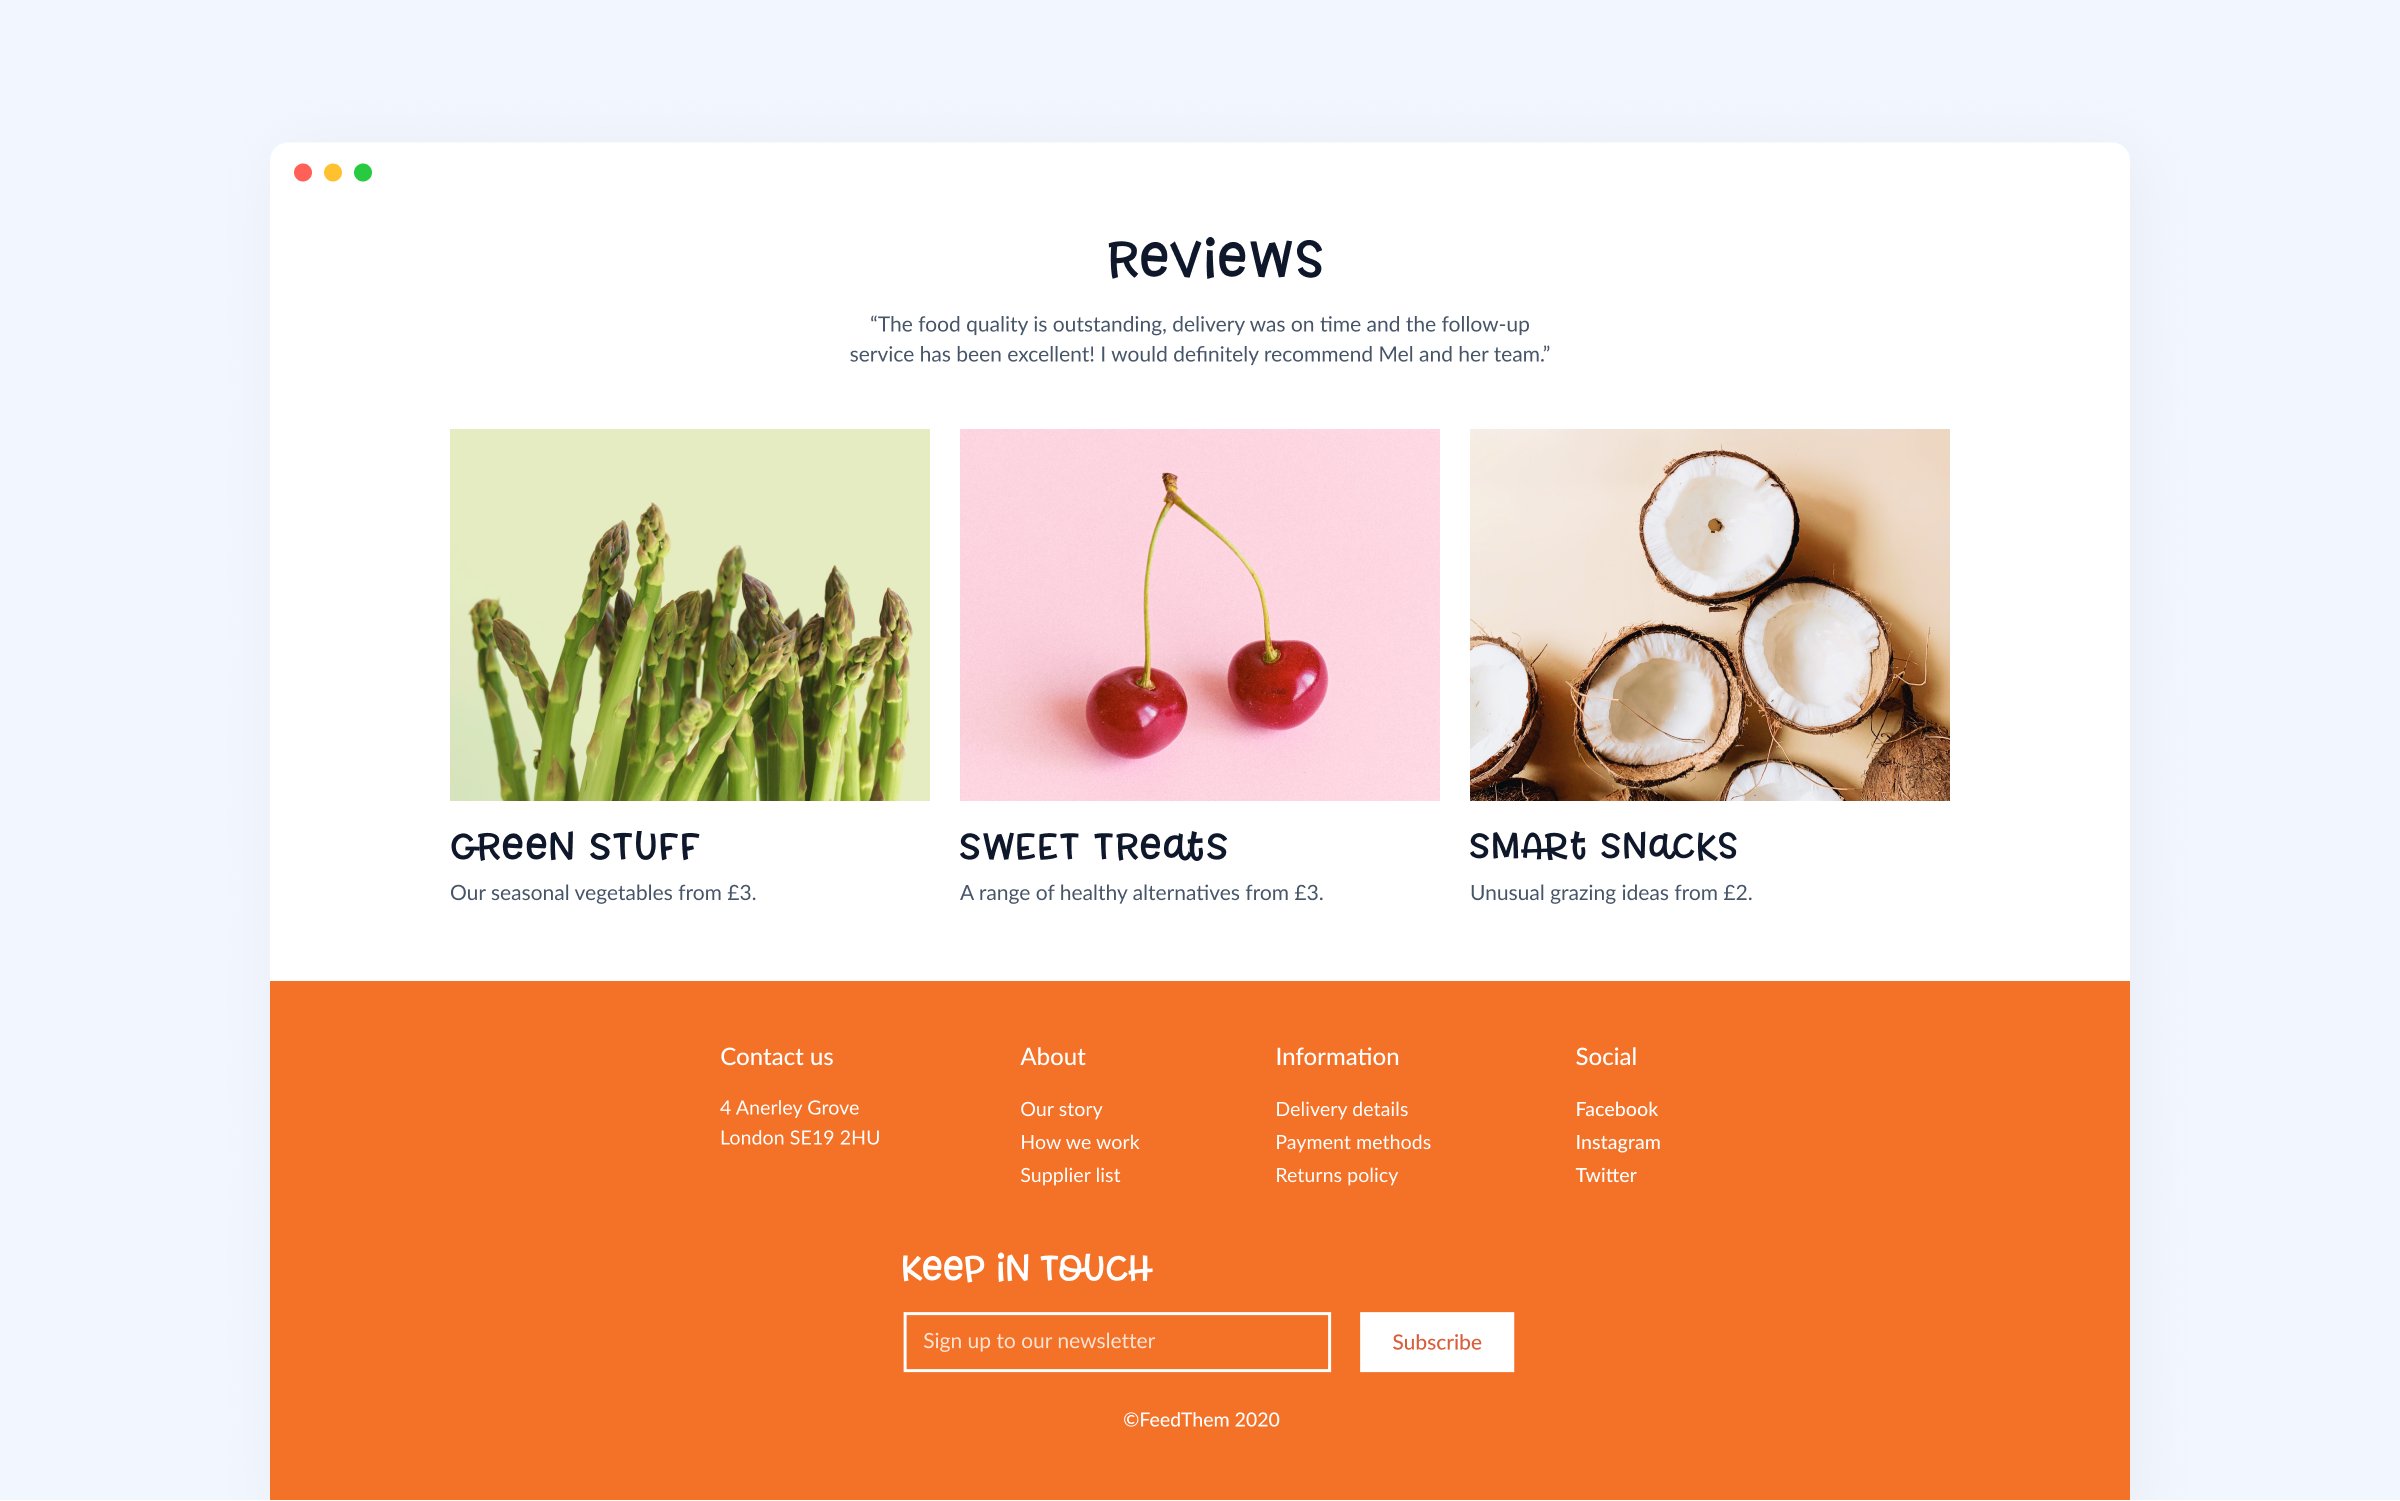
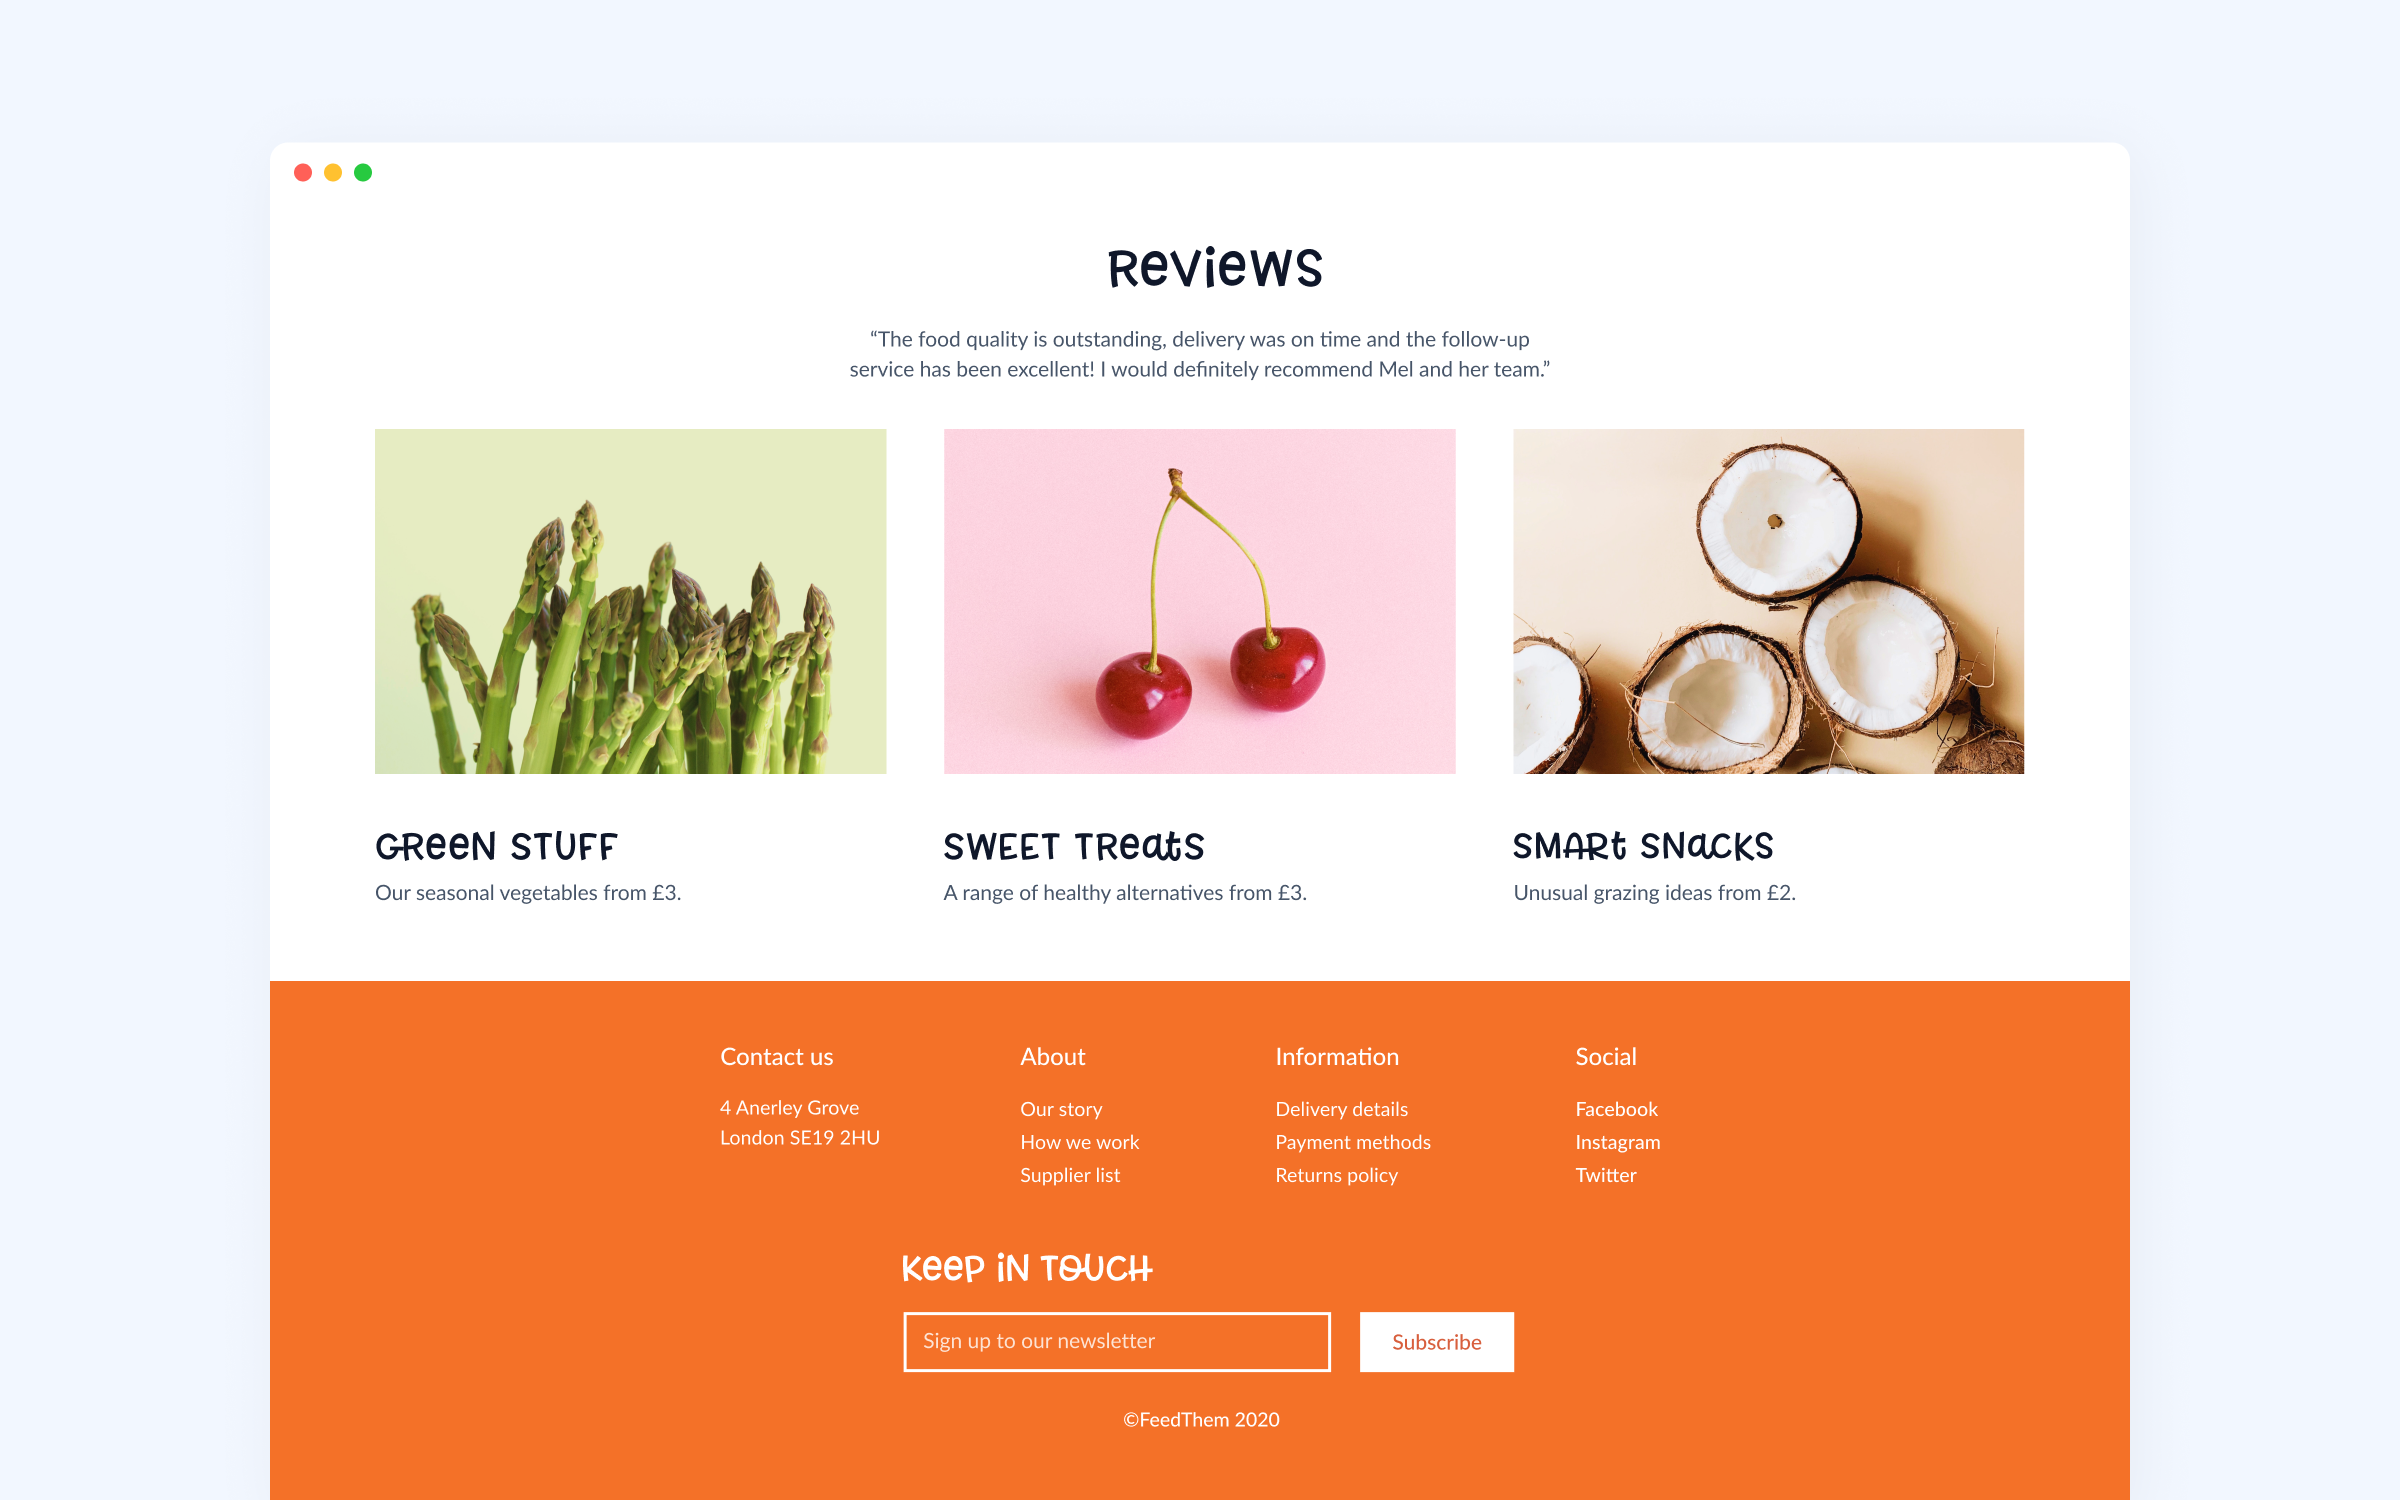
Minor bits

Changed region(s): [[0.1562, 0.2758, 0.8438, 0.6129], [0.3438, 0.1532, 0.6562, 0.2452]]

diff --git a/index.html b/index.html
@@ -56,7 +56,7 @@
                     </p>
                     <p>
                         I'm a trained Information Designer and experienced
-                        Design Team leader. I run engaging creative workshops. I
+                        Design Team Leader. I run engaging creative workshops. I
                         love project planning and strategy and spend a lot of my
                         time defining and prioritising briefs.
                     </p>

diff --git a/css/shes-got-style.css b/css/shes-got-style.css
@@ -2,7 +2,7 @@
 @import url("https://fonts.googleapis.com/css?family=Lato:wght@300&display=swap");
 
 :root {
-    --site-width: 1000px;
+    --site-width: 960px;
     --post-text-width: 760px;
     --post-image-max-width: 600px;
 
